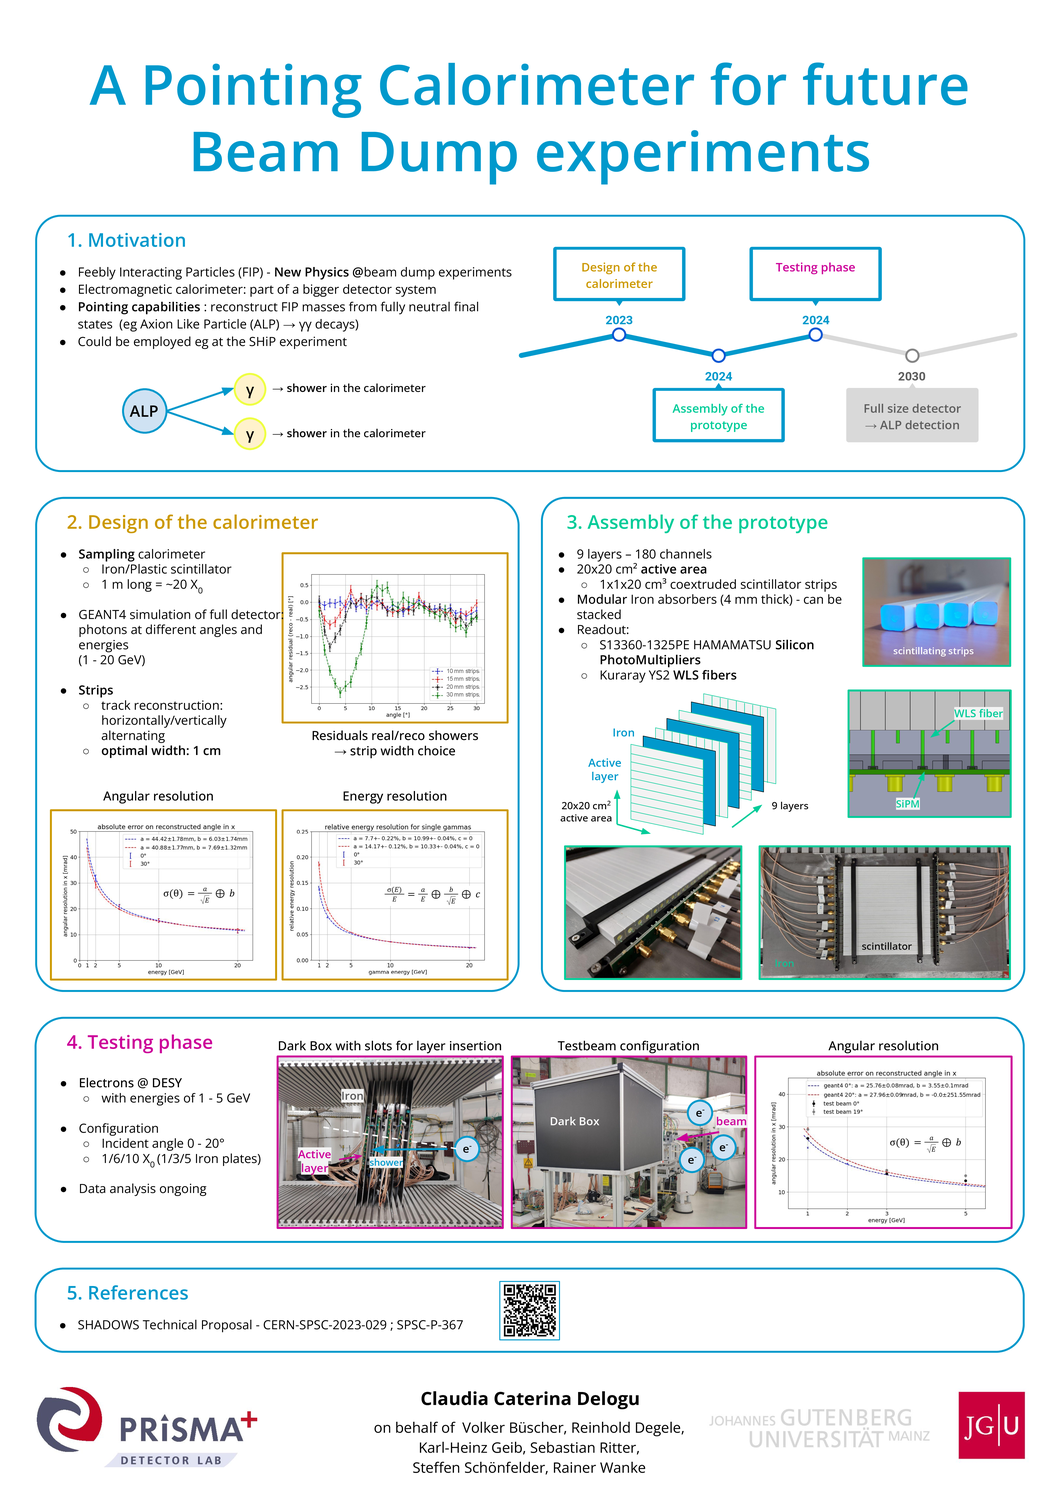
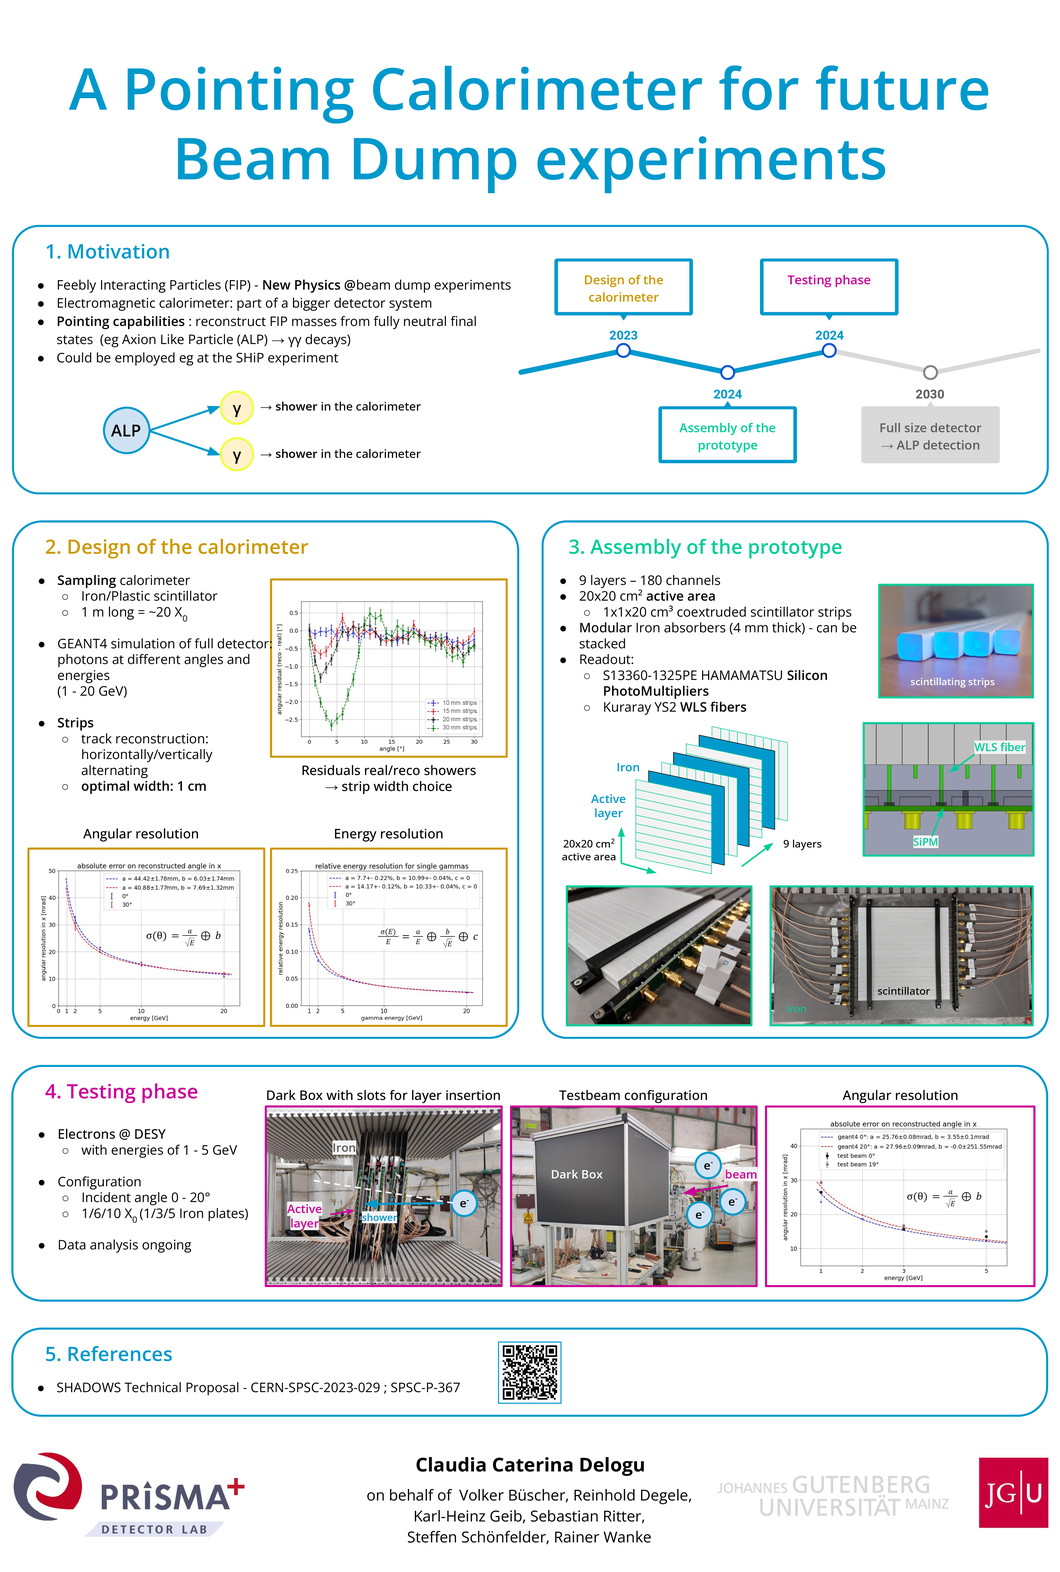
Minor.

diff --git a/pm2024/pm2024_raster.py b/pm2024/pm2024_raster.py
@@ -40,7 +40,7 @@ PARSER.add_argument('--autocrop', action='store_true')
 PARSER.add_argument('--overwrite', action='store_true')
 
 
-_AUTOCROP_LIST = [23, 60, 212]
+_AUTOCROP_LIST = [23, 60, 212, 234]
 
 
 
